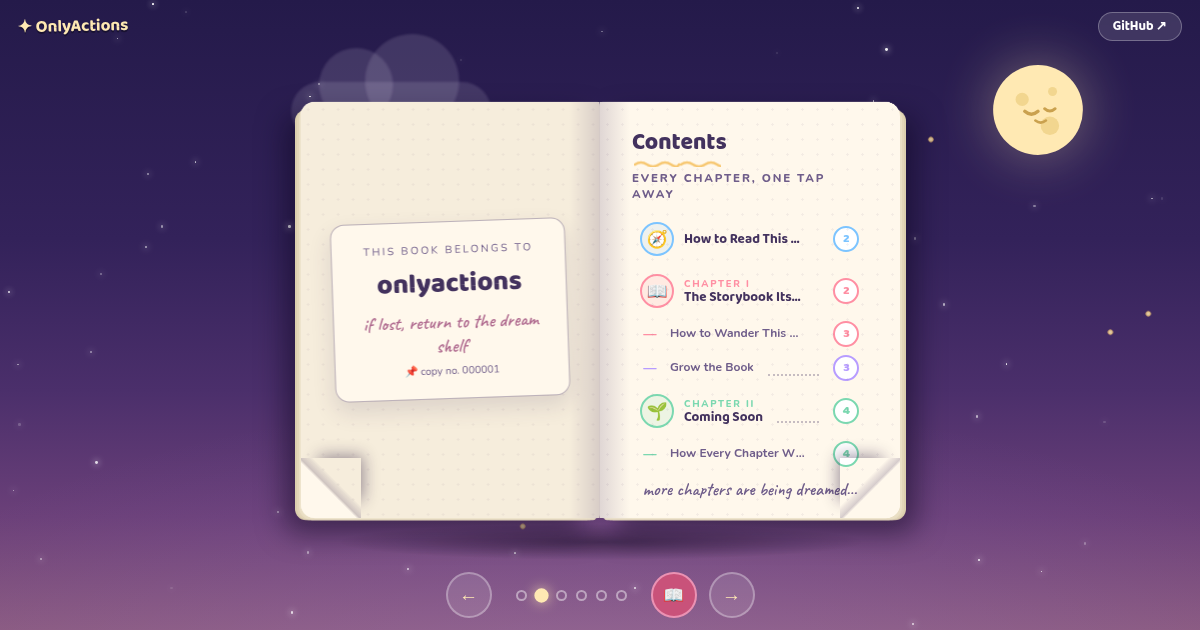
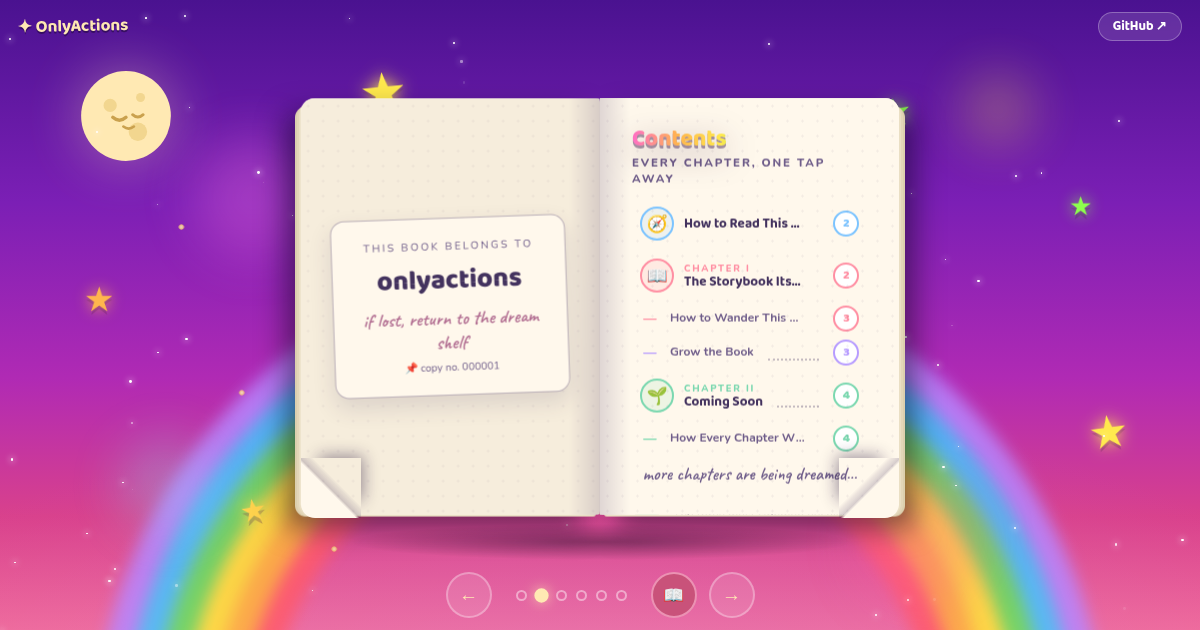
🌈 Re-skin to the ToonTableOfContents reference: rainbow title, green leather cover, rainbow arc, chunky stars, bokeh dusk

diff --git a/css/style.css b/css/style.css
@@ -9,9 +9,9 @@
   --paper-2:  #f6eddc;
   --ink:      #43325e;
   --ink-soft: #6f5d8a;
-  --night-1:  #241a4a;
-  --night-2:  #4b2f6b;
-  --night-3:  #8a5a80;
+  --night-1:  #5e17a6;
+  --night-2:  #a02ab8;
+  --night-3:  #e0447e;
   --gold:     #f7c873;
   --gold-deep:#e0a94e;
   --coral:    #ff8fa3;
@@ -34,6 +34,13 @@ body {
   color: var(--ink);
   -webkit-font-smoothing: antialiased;
 }
+
+.rainbow-text {
+  background: linear-gradient(92deg, #ff6ec7 0%, #ffb64d 20%, #ffe94d 38%, #6ee06a 56%, #4fc3f7 74%, #b388ff 92%);
+  -webkit-background-clip: text; background-clip: text;
+  color: transparent; -webkit-text-fill-color: transparent;
+  filter: drop-shadow(0 3px 0 rgba(50, 12, 70, .42)) drop-shadow(0 8px 16px rgba(30, 5, 50, .35));
+}
 .page :is(h1, h2, h3, p, ul, ol, pre) { margin: 0; }
 .hand { font-family: "Caveat", "Segoe Script", cursive; }
 
@@ -49,7 +56,7 @@ body {
 .scene {
   position: fixed; inset: 0; z-index: 0; overflow: hidden;
   background: linear-gradient(180deg,
-    #241a4a 0%, #33225a 38%, #4b2f6b 62%, #6b4079 82%, #8a5a80 100%);
+    #4a1290 0%, #7b1fb5 32%, #b02ab4 60%, #d9418c 82%, #f06a9b 100%);
 }
 .scene::before {                      /* chapter ambience */
   content: ""; position: absolute; inset: 0;
@@ -57,16 +64,52 @@ body {
   opacity: .16; transition: opacity 1.4s ease;
 }
 .scene__moon {
-  position: absolute; top: 7%; right: 8%;
+  position: absolute; top: 8%; left: 5%;
   width: clamp(74px, 11vw, 132px);
   filter: drop-shadow(0 0 28px rgba(255, 233, 179, .38));
   transform: translate(calc(var(--px) * 12px), calc(var(--py) * 9px));
 }
 .scene__moon svg { width: 100%; display: block; }
 
+.scene__rainbow {
+  position: absolute; left: 50%; top: 60%;
+  width: min(130vw, 1500px); aspect-ratio: 2;
+  transform: translate(-50%, -50%);
+  border-radius: 50% 50% 0 0 / 100% 100% 0 0;
+  background: radial-gradient(farthest-side at 50% 100%,
+    transparent 44.4%,
+    #ff5f6d 45%,   #ff5f6d 48.2%,
+    #ffb64d 48.8%, #ffb64d 52%,
+    #ffe94d 52.6%, #ffe94d 55.8%,
+    #6ee06a 56.4%, #6ee06a 59.6%,
+    #4fc3f7 60.2%, #4fc3f7 63.4%,
+    #b388ff 64%,   #b388ff 67.2%,
+    transparent 67.8%);
+  filter: blur(8px) saturate(1.15);
+  opacity: .85;
+}
+
+.bigstar {
+  position: absolute; color: var(--c, #ffe94d);
+  text-shadow: 0 0 16px var(--c, #ffe94d), 0 4px 0 rgba(60, 10, 80, .28);
+  animation: starSpin 9s ease-in-out infinite var(--d, 0s);
+}
+@keyframes starSpin {
+  0%, 100% { transform: rotate(-10deg) scale(1); }
+  50%      { transform: rotate(9deg) scale(1.14); }
+}
+
+.bokeh {
+  position: absolute; width: var(--s, 90px); height: var(--s, 90px);
+  border-radius: 50%; background: var(--c, #ff77e1);
+  filter: blur(26px); opacity: .3;
+  animation: bokehFloat 12s ease-in-out infinite alternate;
+}
+@keyframes bokehFloat { to { transform: translate(34px, -44px) scale(1.16); } }
+
 .cloud {
   position: absolute; width: 200px; height: 58px;
-  background: rgba(244, 236, 255, .13); border-radius: 999px;
+  background: rgba(255, 214, 250, .15); border-radius: 999px;
   filter: blur(1px);
 }
 .cloud::before, .cloud::after {
@@ -275,7 +318,7 @@ body {
 
 /* -------------------------------------------------------------- cover */
 .page--cover {
-  background: linear-gradient(160deg, #62419c 0%, #4c3180 55%, #3c2768 100%);
+  background: linear-gradient(160deg, #2fc47e 0%, #1da56a 55%, #148a58 100%);
   border-radius: 0 14px 14px 0; overflow: visible; color: #f3ecff;
   cursor: pointer;
 }
@@ -289,30 +332,32 @@ body {
 }
 .cover__press {
   font-size: clamp(9px, calc(var(--ph) * .021), 11.5px);
-  letter-spacing: .28em; text-transform: uppercase; color: #cbb6ef;
+  letter-spacing: .28em; text-transform: uppercase; color: #c9f7dd;
 }
 .cover__title {
   font-family: "Baloo 2", sans-serif; font-weight: 800;
   font-size: clamp(30px, calc(var(--pw) * .148), 58px); line-height: 1;
-  color: var(--gold);
-  text-shadow: 0 2px 0 #7c5423, 0 5px 14px rgba(0, 0, 0, .45);
   transform: rotate(-1.4deg);
 }
 .cover__sub {
   font-family: "Caveat", cursive;
-  font-size: clamp(17px, calc(var(--ph) * .037), 24px); color: #ffe9f0;
+  font-size: clamp(17px, calc(var(--ph) * .037), 24px); color: #fffbe8;
 }
-.worm--cover { width: clamp(74px, calc(var(--pw) * .26), 104px); height: auto; }
+.worm--cover {
+  width: clamp(74px, calc(var(--pw) * .26), 104px); height: auto;
+  background: radial-gradient(circle at 50% 44%, #fff8ec 0 58%, transparent 60%);
+  border-radius: 50%;
+}
 .cover__hint {
   font-family: "Baloo 2", sans-serif; font-weight: 700;
-  color: var(--gold); font-size: clamp(12px, calc(var(--ph) * .028), 15px);
+  color: #ffe94d; font-size: clamp(12px, calc(var(--ph) * .028), 15px);
   animation: hintPulse 1.7s ease-in-out infinite;
 }
 @keyframes hintPulse { 0%, 100% { opacity: .55; transform: scale(1); } 50% { opacity: 1; transform: scale(1.07); } }
 .cover__vol {
   position: absolute; bottom: 16px; left: 0; right: 0;
   font-size: clamp(9px, calc(var(--ph) * .02), 11px);
-  letter-spacing: .22em; text-transform: uppercase; color: #b9a6dd;
+  letter-spacing: .22em; text-transform: uppercase; color: #b9ecd0;
 }
 
 /* ----------------------------------------------------------- endpaper */
@@ -601,6 +646,6 @@ body {
 .nojs {
   position: fixed; inset: 0; z-index: 99; display: grid; place-content: center;
   text-align: center; gap: 10px; padding: 24px;
-  background: linear-gradient(180deg, #241a4a, #4b2f6b); color: #f3ecff;
+  background: linear-gradient(180deg, #5e17a6, #d9418c); color: #f3ecff;
 }
 .nojs a { color: var(--gold); }

diff --git a/index.html b/index.html
@@ -5,7 +5,7 @@
   <meta name="viewport" content="width=device-width, initial-scale=1" />
   <title>OnlyActions — a tiny storybook of tools</title>
   <meta name="description" content="The OnlyActions storybook: a cartoon flip-book table of contents and manual for every little tool we make." />
-  <meta name="theme-color" content="#241a4a" />
+  <meta name="theme-color" content="#7b1fb5" />
   <link rel="canonical" href="https://onlyactions.github.io/" />
 
   <meta property="og:type" content="website" />
@@ -25,7 +25,7 @@
 </head>
 <body data-chapter="none">
 
-  <!-- 🌙 the dreamscape -->
+  <!-- 🌈 the dreamscape -->
   <div class="scene" aria-hidden="true">
     <div class="scene__moon">
       <svg viewBox="0 0 100 100">
@@ -38,6 +38,18 @@
         <path d="M48 58 q4 3 8 0" stroke="#caa14e" stroke-width="2" fill="none" stroke-linecap="round" />
       </svg>
     </div>
+    <div class="scene__rainbow"></div>
+    <span class="bigstar" style="--c:#ffe94d; top:9%;  left:30%; font-size:52px; --d:0s">★</span>
+    <span class="bigstar" style="--c:#8dff4d; top:14%; right:24%; font-size:38px; --d:.8s">★</span>
+    <span class="bigstar" style="--c:#ffb64d; top:44%; left:7%;  font-size:34px; --d:1.6s">★</span>
+    <span class="bigstar" style="--c:#ffe94d; top:64%; right:6%; font-size:44px; --d:.4s">★</span>
+    <span class="bigstar" style="--c:#8dff4d; top:30%; right:9%; font-size:26px; --d:2.2s">★</span>
+    <span class="bigstar" style="--c:#ffd24d; top:78%; left:20%; font-size:30px; --d:1.1s">★</span>
+    <span class="bokeh" style="--c:#ff77e1; top:22%; left:16%; --s:120px"></span>
+    <span class="bokeh" style="--c:#7de3ff; top:70%; left:10%; --s:90px"></span>
+    <span class="bokeh" style="--c:#ffe94d; top:12%; right:14%; --s:70px"></span>
+    <span class="bokeh" style="--c:#ff5f9e; top:76%; right:18%; --s:130px"></span>
+    <span class="bokeh" style="--c:#b388ff; top:40%; right:30%; --s:80px"></span>
     <div class="cloud cloud--1"></div>
     <div class="cloud cloud--2"></div>
     <div class="cloud cloud--3"></div>

diff --git a/js/book.js b/js/book.js
@@ -54,7 +54,7 @@
     p.innerHTML =
       '<div class="cover__frame">' +
         '<p class="cover__press">✦ ' + esc(B.press) + ' presents ✦</p>' +
-        '<h1 class="cover__title">' + esc(B.title) + '</h1>' +
+        '<h1 class="cover__title rainbow-text">' + esc(B.title) + '</h1>' +
         '<p class="cover__sub">' + esc(B.subtitle) + '</p>' +
         worm('worm--cover') +
         '<p class="cover__hint">✦ open me ✦</p>' +
@@ -113,7 +113,7 @@
     var list = el('nav', 'toc__list', '');
     list.setAttribute('aria-label', 'Table of contents');
     rows.forEach(function (r) { list.appendChild(r); });
-    p.innerHTML = '<header class="page__head"><h2 class="page__title u-doodle">Contents</h2>' +
+    p.innerHTML = '<header class="page__head"><h2 class="page__title rainbow-text">Contents</h2>' +
       '<p class="page__kicker">every chapter, one tap away</p></header>';
     p.appendChild(list);
     p.appendChild(el('p', 'toc__foot hand', 'more chapters are being dreamed…'));
